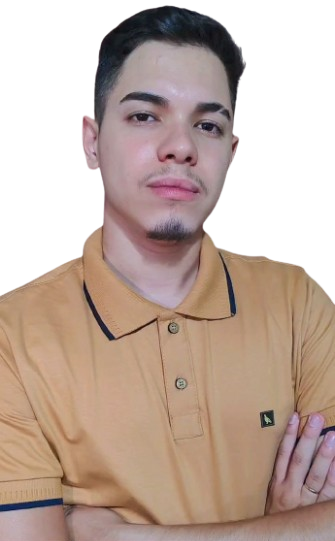
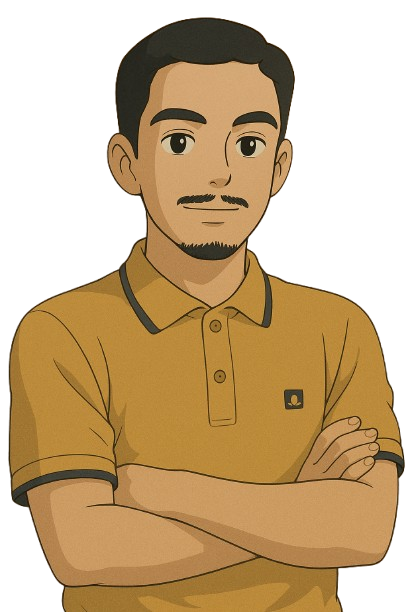
feat: starting about

diff --git a/portifolio/src/components/About/About.tsx b/portifolio/src/components/About/About.tsx
@@ -1,0 +1,42 @@
+import Image from "next/image";
+import React from "react";
+import foto from "../../public/ilustration.png";
+
+const About = () => {
+  return (
+    <section id="about" className="w-full h-screen bg-[#BC8A3C] text-white p-4">
+      <div className="pt-4">
+        <h3 className="font-bold text-lg">Sobre mim</h3>
+        <p className="pt-4">
+          Olá! Me chamo Clécio, sou apaixonado por desenvolvimento web. Estou em
+          transição de carreira para atuar como desenvolvedor front-end, unindo
+          minha experiência como Auxiliar de TI com meu interesse por interfaces
+          modernas, interativas e responsivas. <br />
+          Atualmente, colaboro como desenvolvedor front-end em uma microempresa,
+          onde utilizo React e Next.js no dia a dia. Tenho experiência com
+          consumo de APIs RESTful, componentização de interfaces, e estou sempre
+          buscando evoluir com boas práticas de código e acessibilidade. <br />
+          Também gosto de criar projetos próprios, participar de comunidades
+          tech e desafios em grupo. Estou sempre aprendendo algo novo,
+          principalmente sobre SEO, design responsivo, e performance web. Meu
+          objetivo é crescer na área e contribuir com soluções que façam a
+          diferença, trabalhando em equipe e entregando experiências digitais de
+          qualidade.
+        </p>
+      </div>
+
+      <div className="flex justify-center pt-10">
+        <Image
+          src={foto}
+          alt="Foto de perfil"
+          width={300}
+          height={200}
+          className="rounded-lg"
+          priority
+        />
+      </div>
+    </section>
+  );
+};
+
+export default About;

diff --git a/portifolio/src/components/MenuHamburguer/MenuHamburguer.tsx b/portifolio/src/components/MenuHamburguer/MenuHamburguer.tsx
@@ -41,8 +41,8 @@ const MenuHambuguer = () => {
   return (
     <Sheet>
       <SheetTrigger asChild>
-        <Button variant="secondary" className="rounded-sm">
-          <RxHamburgerMenu />
+        <Button variant="secondary" className="rounded-sm bg-[#BC8A3C]">
+          <RxHamburgerMenu color="white"/>
         </Button>
       </SheetTrigger>
       <SheetContent className="w-[200px]">
@@ -52,7 +52,7 @@ const MenuHambuguer = () => {
               {links.map((link) => (
                 <SheetTitle key={link.id}>
                   <li className="hover:text-gray-400">
-                    <Link href={link.url}>{link.name}</Link>
+                    <a href={link.url}>{link.name}</a>
                   </li>
                 </SheetTitle>
               ))}

diff --git a/portifolio/src/components/Start/Start.tsx b/portifolio/src/components/Start/Start.tsx
@@ -25,14 +25,14 @@ const Start = () => {
         </div>
 
         <div>
-          <TypewriterComponent />
+          <span className="text-xl">Olá, eu sou </span><TypewriterComponent />
         </div>
 
         <div className="flex gap-8">
-          <Button variant={"default"} className="cursor-pointer">
+          <Button variant={"default"} className="cursor-pointer bg-[#BC8A3C]">
             Meu CV
           </Button>
-          <Button className="cursor-pointer">Conversar</Button>
+          <Button className="cursor-pointer bg-[#BC8A3C]">Conversar</Button>
         </div>
       </div>
     </section>

diff --git a/portifolio/src/components/Typewriter/Typewriter.tsx b/portifolio/src/components/Typewriter/Typewriter.tsx
@@ -4,9 +4,9 @@ import { Typewriter } from "react-simple-typewriter";
 
 export default function TypewriterComponent() {
   return (
-    <h1 className="text-2xl font-mono">
+    <span className="text-xl">
       <Typewriter
-        words={["Olá, eu me chamo Clécio Lira!", "Sou Desenvolvedor Front-end!"]}
+        words={["o Clécio Lira!", "Desenvolvedor Front-end!"]}
         loop={true}
         cursor
         cursorStyle="|"
@@ -14,6 +14,6 @@ export default function TypewriterComponent() {
         deleteSpeed={50}
         delaySpeed={2000}
       />
-    </h1>
+    </span>
   );
 }

diff --git a/portifolio/src/components/Header/Header.tsx b/portifolio/src/components/Header/Header.tsx
@@ -31,7 +31,7 @@ const links = [
 
 const Header = () => {
   return (
-    <header className="fixed z-50 w-full bg-gray-900 p-4 flex justify-between items-center text-white">
+    <header className="fixed z-50 w-full bg-[#434237] p-4 flex justify-between items-center text-white">
       <div>LOGO</div>
 
       <div className="lg:hidden">

diff --git a/portifolio/src/components/VantaBG/VantaBG.tsx b/portifolio/src/components/VantaBG/VantaBG.tsx
@@ -18,8 +18,8 @@ export default function VantaBirds() {
           scale: 1.0,
           scaleMobile: 1.0,
           backgroundColor: 0xffffff,
-          color1: 0x212529,
-          color2: 0x212529,
+          color1: 0xBC8A3C,
+          color2: 0xBC8A3C,
         });
         clearInterval(interval);
       }

diff --git a/portifolio/src/app/page.tsx b/portifolio/src/app/page.tsx
@@ -1,3 +1,4 @@
+import About from "@/components/About/About";
 import Header from "@/components/Header/Header";
 import Start from "@/components/Start/Start";
 
@@ -6,6 +7,7 @@ export default function Home() {
     <main>
       <Header />
       <Start />
+      <About />
     </main>
   );
 }

diff --git a/portifolio/src/app/layout.tsx b/portifolio/src/app/layout.tsx
@@ -12,7 +12,7 @@ export default function RootLayout({
   children: React.ReactNode;
 }>) {
   return (
-    <html lang="pt-br">
+    <html lang="pt-br" className="scroll-smooth">
       <body>
         {children}
       </body>
